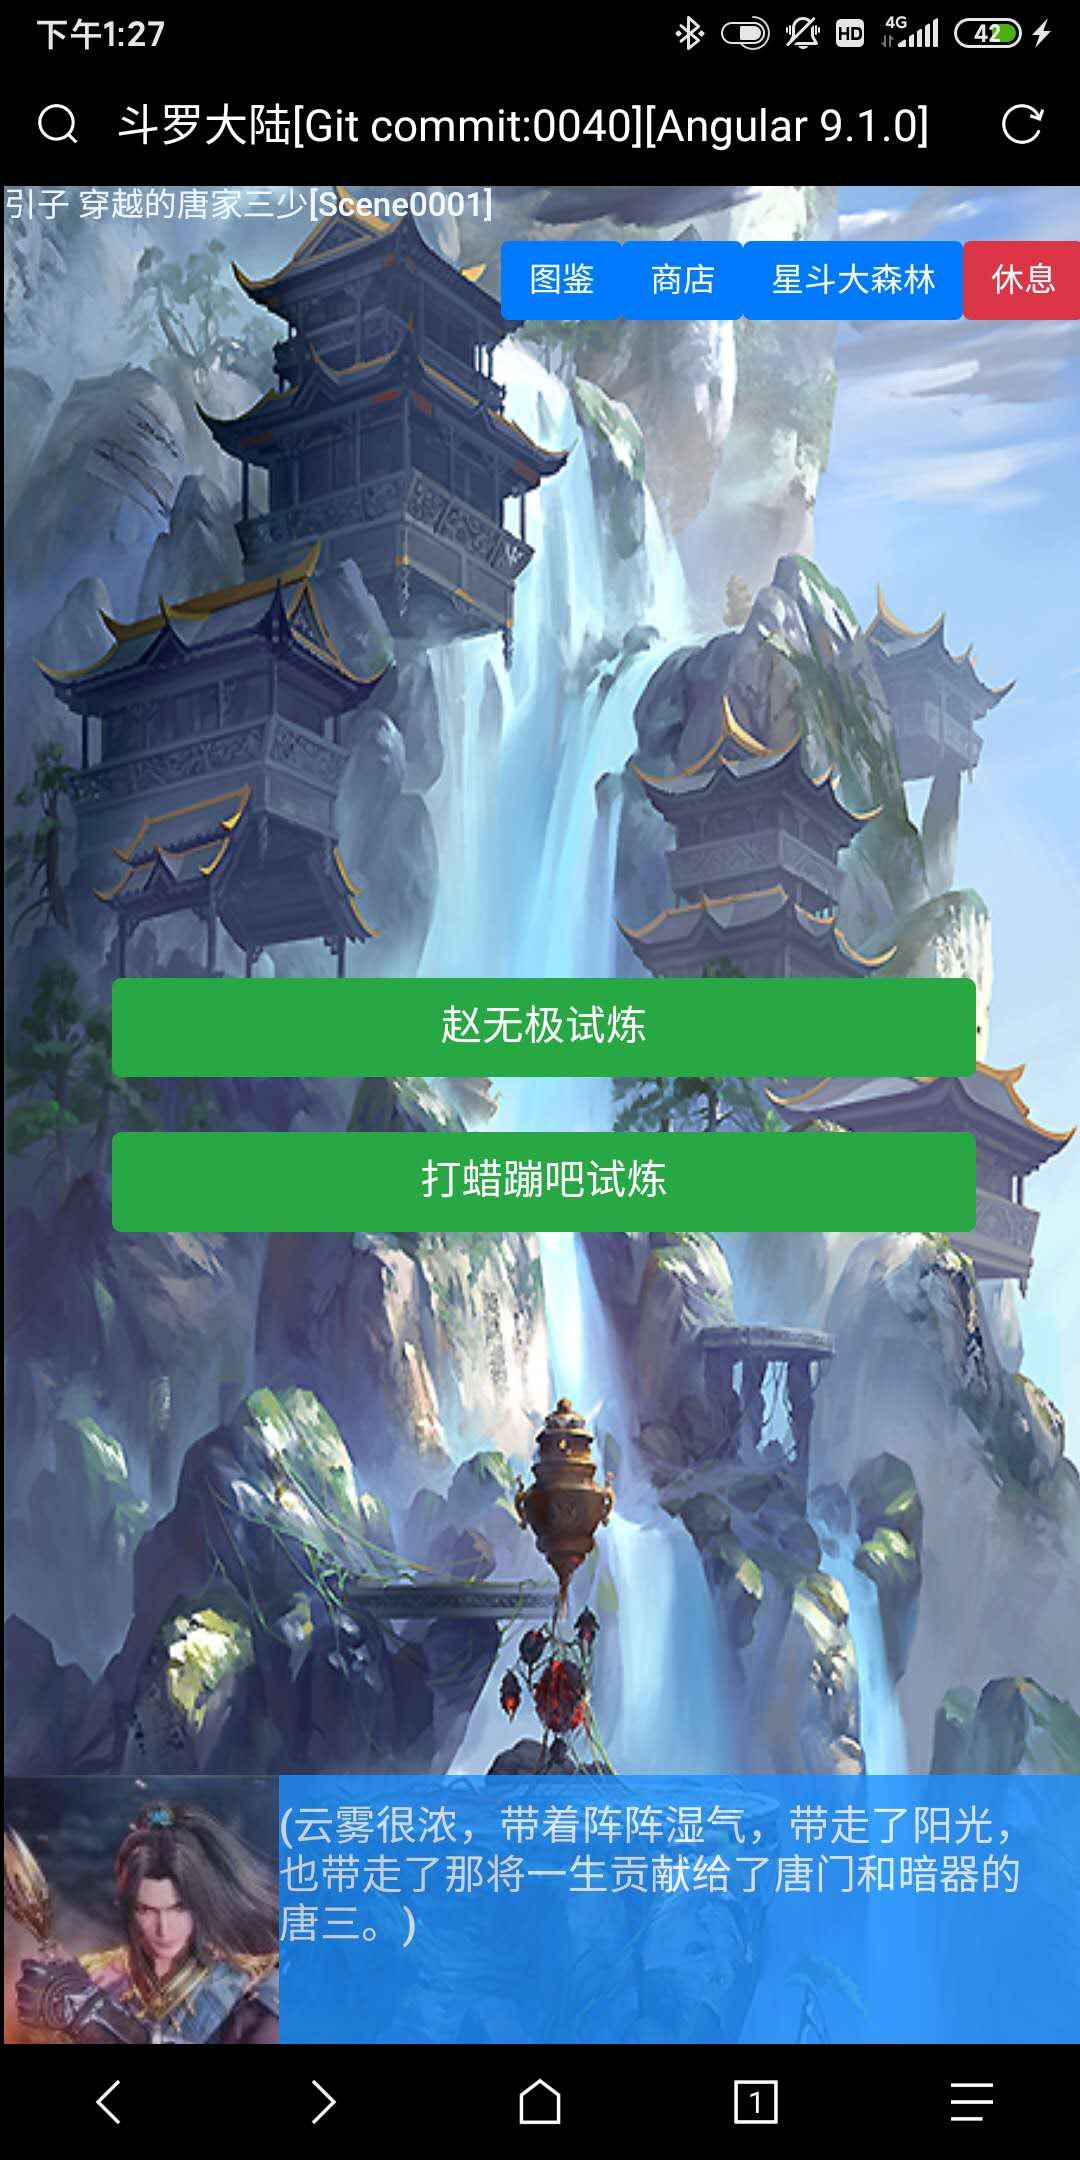
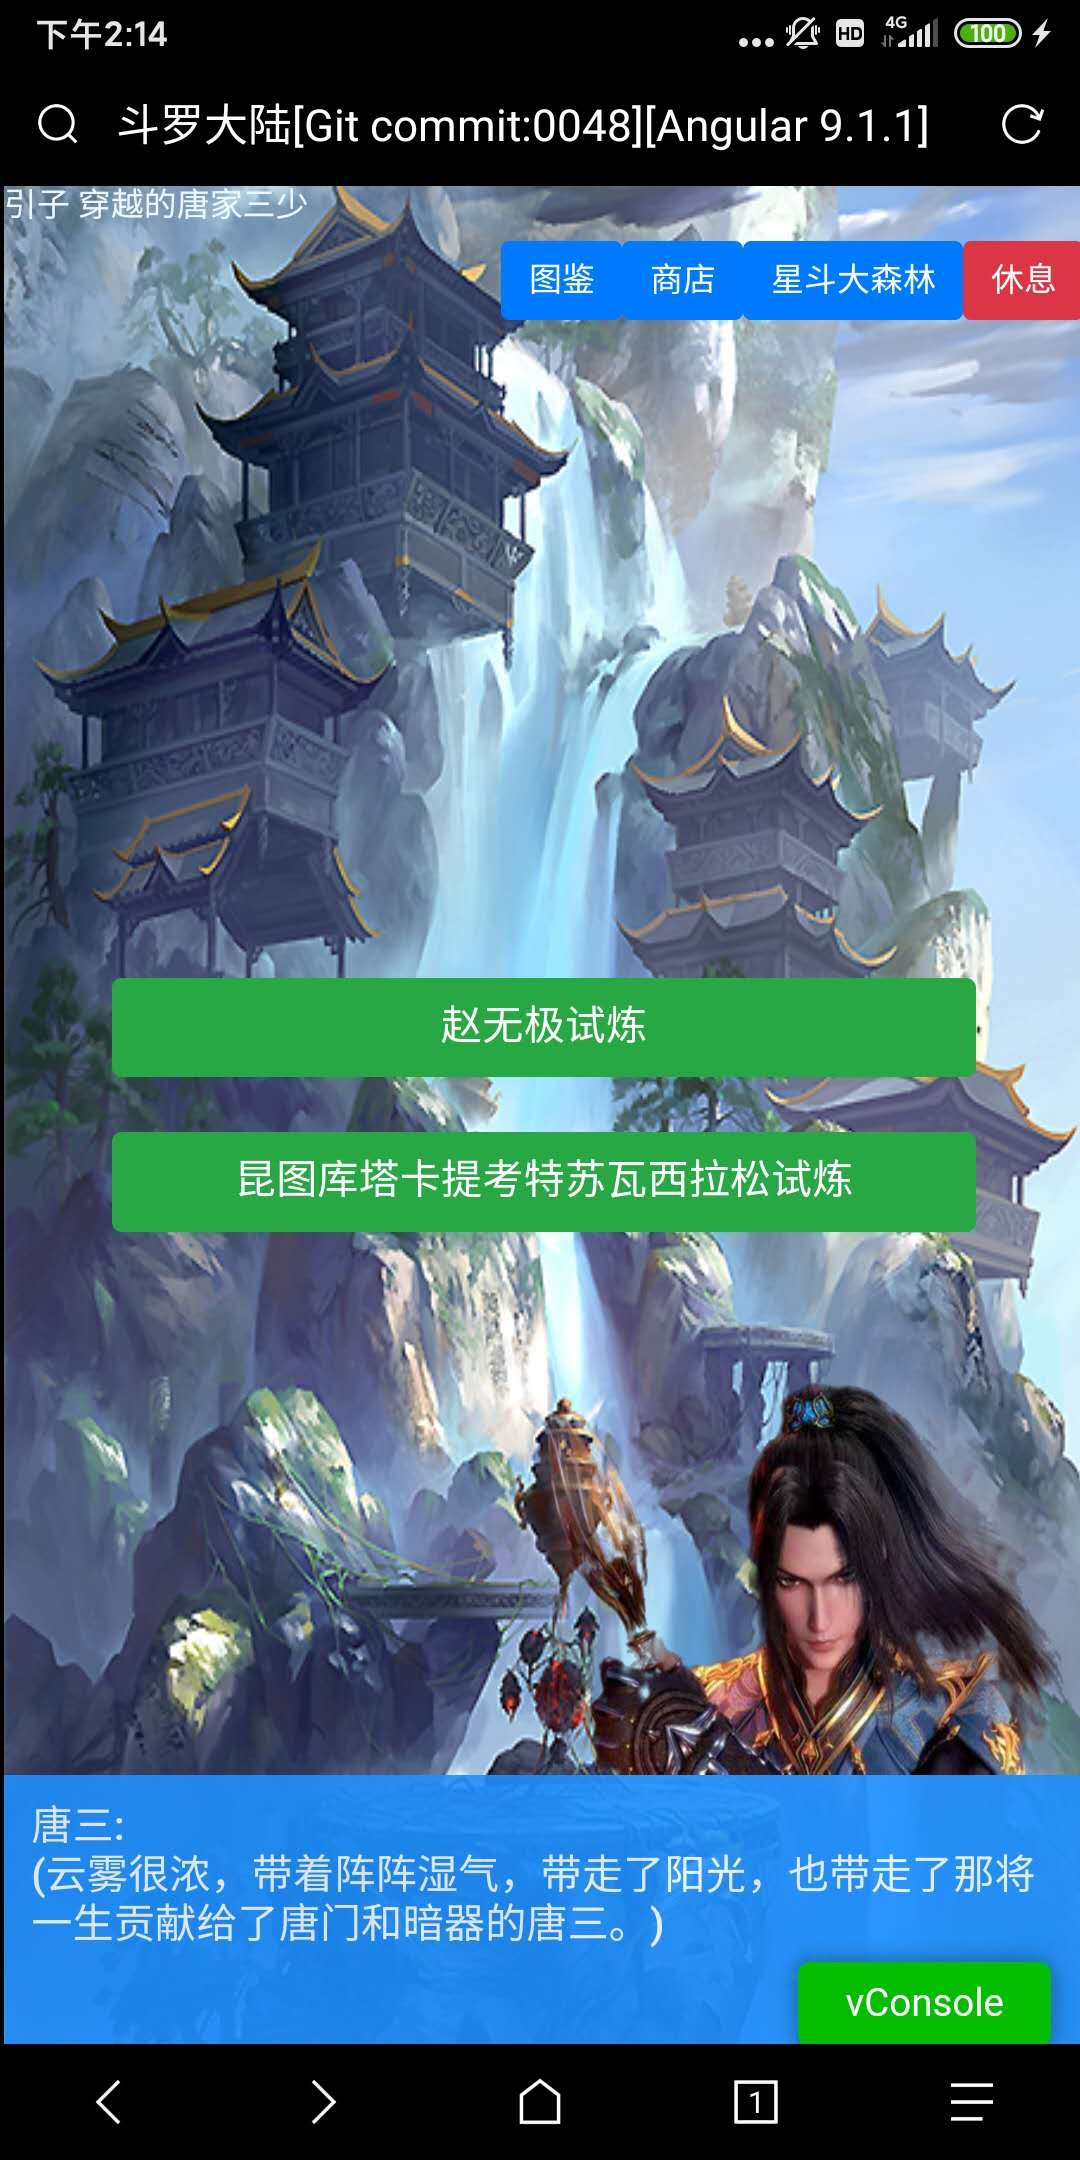
对话框改造

diff --git a/UI/src/app/Core/SceneMgr.ts b/UI/src/app/Core/SceneMgr.ts
@@ -45,10 +45,10 @@ export const Scene0000: SceneInfo = {
     Title: "引子 穿越的唐家三少",
     Background: "唐门",
     Lines: [
-        "唐门唐三@我知道，偷入内门，偷学本门绝学罪不可恕，门规所不容。但唐三可以对天发誓，绝未将偷学到的任何一点本门绝学泄露与外界。",
-        "唐门唐三@我说这些，并不是希望得到长老们的宽容，只是想告诉长老们，唐三从未忘本。以前没有，以后也没有。",
-        "唐门唐三@唐三的一切都是唐门给的，不论是生命还是所拥有的能力，都是唐门所赋予，不论什么时候，唐三生是唐门的人，死是唐门的鬼，",
-        "唐门唐三@我知道，长老们是不会允许我一个触犯门规的外门弟子尸体留在唐门的，既然如此，就让我骨化于这巴蜀自然之中吧。",
+        "唐三@我知道，偷入内门，偷学本门绝学罪不可恕，门规所不容。但唐三可以对天发誓，绝未将偷学到的任何一点本门绝学泄露与外界。",
+        "唐三@我说这些，并不是希望得到长老们的宽容，只是想告诉长老们，唐三从未忘本。以前没有，以后也没有。",
+        "唐三@唐三的一切都是唐门给的，不论是生命还是所拥有的能力，都是唐门所赋予，不论什么时候，唐三生是唐门的人，死是唐门的鬼，",
+        "唐三@我知道，长老们是不会允许我一个触犯门规的外门弟子尸体留在唐门的，既然如此，就让我骨化于这巴蜀自然之中吧。",
     ],
     NextScene: "Scene0001"
 };
@@ -58,12 +58,12 @@ export const Scene0001: SceneInfo = {
     Title: "引子 穿越的唐家三少",
     Background: "唐门",
     Lines: [
-        "唐门长老@玄天宝录，你竟然连玄天宝录中本门最高内功也学了？",
-        "唐门唐三@赤裸而来，赤裸而去，佛怒唐莲算是唐三最后留给本门的礼物。",
-        "唐门唐三@现在，除了我这个人以外，我再没有带走唐门任何东西，秘籍都在我房间门内第一块砖下。唐三现在就将一切都还给唐门。",
-        "唐门唐三@哈哈哈哈哈哈哈……。",
-        "唐门长老@等一下。",
-        "唐门唐三@(云雾很浓，带着阵阵湿气，带走了阳光，也带走了那将一生贡献给了唐门和暗器的唐三。)",
+        "玉小刚@玄天宝录，你竟然连玄天宝录中本门最高内功也学了？",
+        "唐三@赤裸而来，赤裸而去，佛怒唐莲算是唐三最后留给本门的礼物。",
+        "唐三@现在，除了我这个人以外，我再没有带走唐门任何东西，秘籍都在我房间门内第一块砖下。唐三现在就将一切都还给唐门。",
+        "唐三@哈哈哈哈哈哈哈……。",
+        "玉小刚@等一下。",
+        "唐三@(云雾很浓，带着阵阵湿气，带走了阳光，也带走了那将一生贡献给了唐门和暗器的唐三。)",
     ],
     Branch: [
         ["赵无极试炼", "Scene0011"],

diff --git a/UI/src/app/scene/scene.component.html b/UI/src/app/scene/scene.component.html
@@ -16,12 +16,14 @@
             (click)="Branch(q[1])">{{q[0]}}</button>
     </div>
 
+    <div style="position: absolute;z-index: 99; bottom: 100px;width: 100%;height: 150px;">
+        <!-- <img [src]="'/assets/character/' + faceurl + '/图鉴.png'" height="200px" width="100px" style="float: right;" /> -->
+        <img [src]="'/assets/character/' + faceurl + '/头像.png'" height="150px" width="200px" style="float: right;" />
+    </div>
     <div
-        style="position: absolute;z-index: 99; bottom: 0px;width: 100%;height: 100px;background-color: dodgerblue;opacity: 0.8;">
-        <img [src]="'/assets/character/' + this.faceurl + '/头像.jpg'" height="100px" width="100px"
-            style="float: left;" />
+        style="position: absolute;z-index: 99; bottom: 0px;width: 100%;height: 100px;background-color: dodgerblue;opacity: 0.9;">
         <h5 style="color: aliceblue;margin: 10px;">
-            {{line}}
+            {{faceurl + ":"}}<br />{{line}}
         </h5>
     </div>
 </div>

diff --git a/README.md b/README.md
@@ -16,10 +16,11 @@
 
 - Angular 9.1.1
 - BootStrap 4.4.1
-- Issue：https://www.bugclose.com/
+- Issue：[BugClose](https://www.bugclose.com/)
 - IDE：VS Code 1.4.4
 - OS：Windows7
 - Server：CentOS
+- 在线AI抠图工具[皮卡智能](http://www.picup.shop/people.html#/)
 
 ## 兼容性
 
@@ -79,7 +80,9 @@ http://datavisualization.club:8888/
 
 ### 场景
 
-<img src="Demo/场景20200310.jpg" width="50%">
+<img src="Demo/场景.jpg" width="50%">
+
+### 场景分支
 
 <img src="Demo/场景分支.jpg" width="50%">
 
